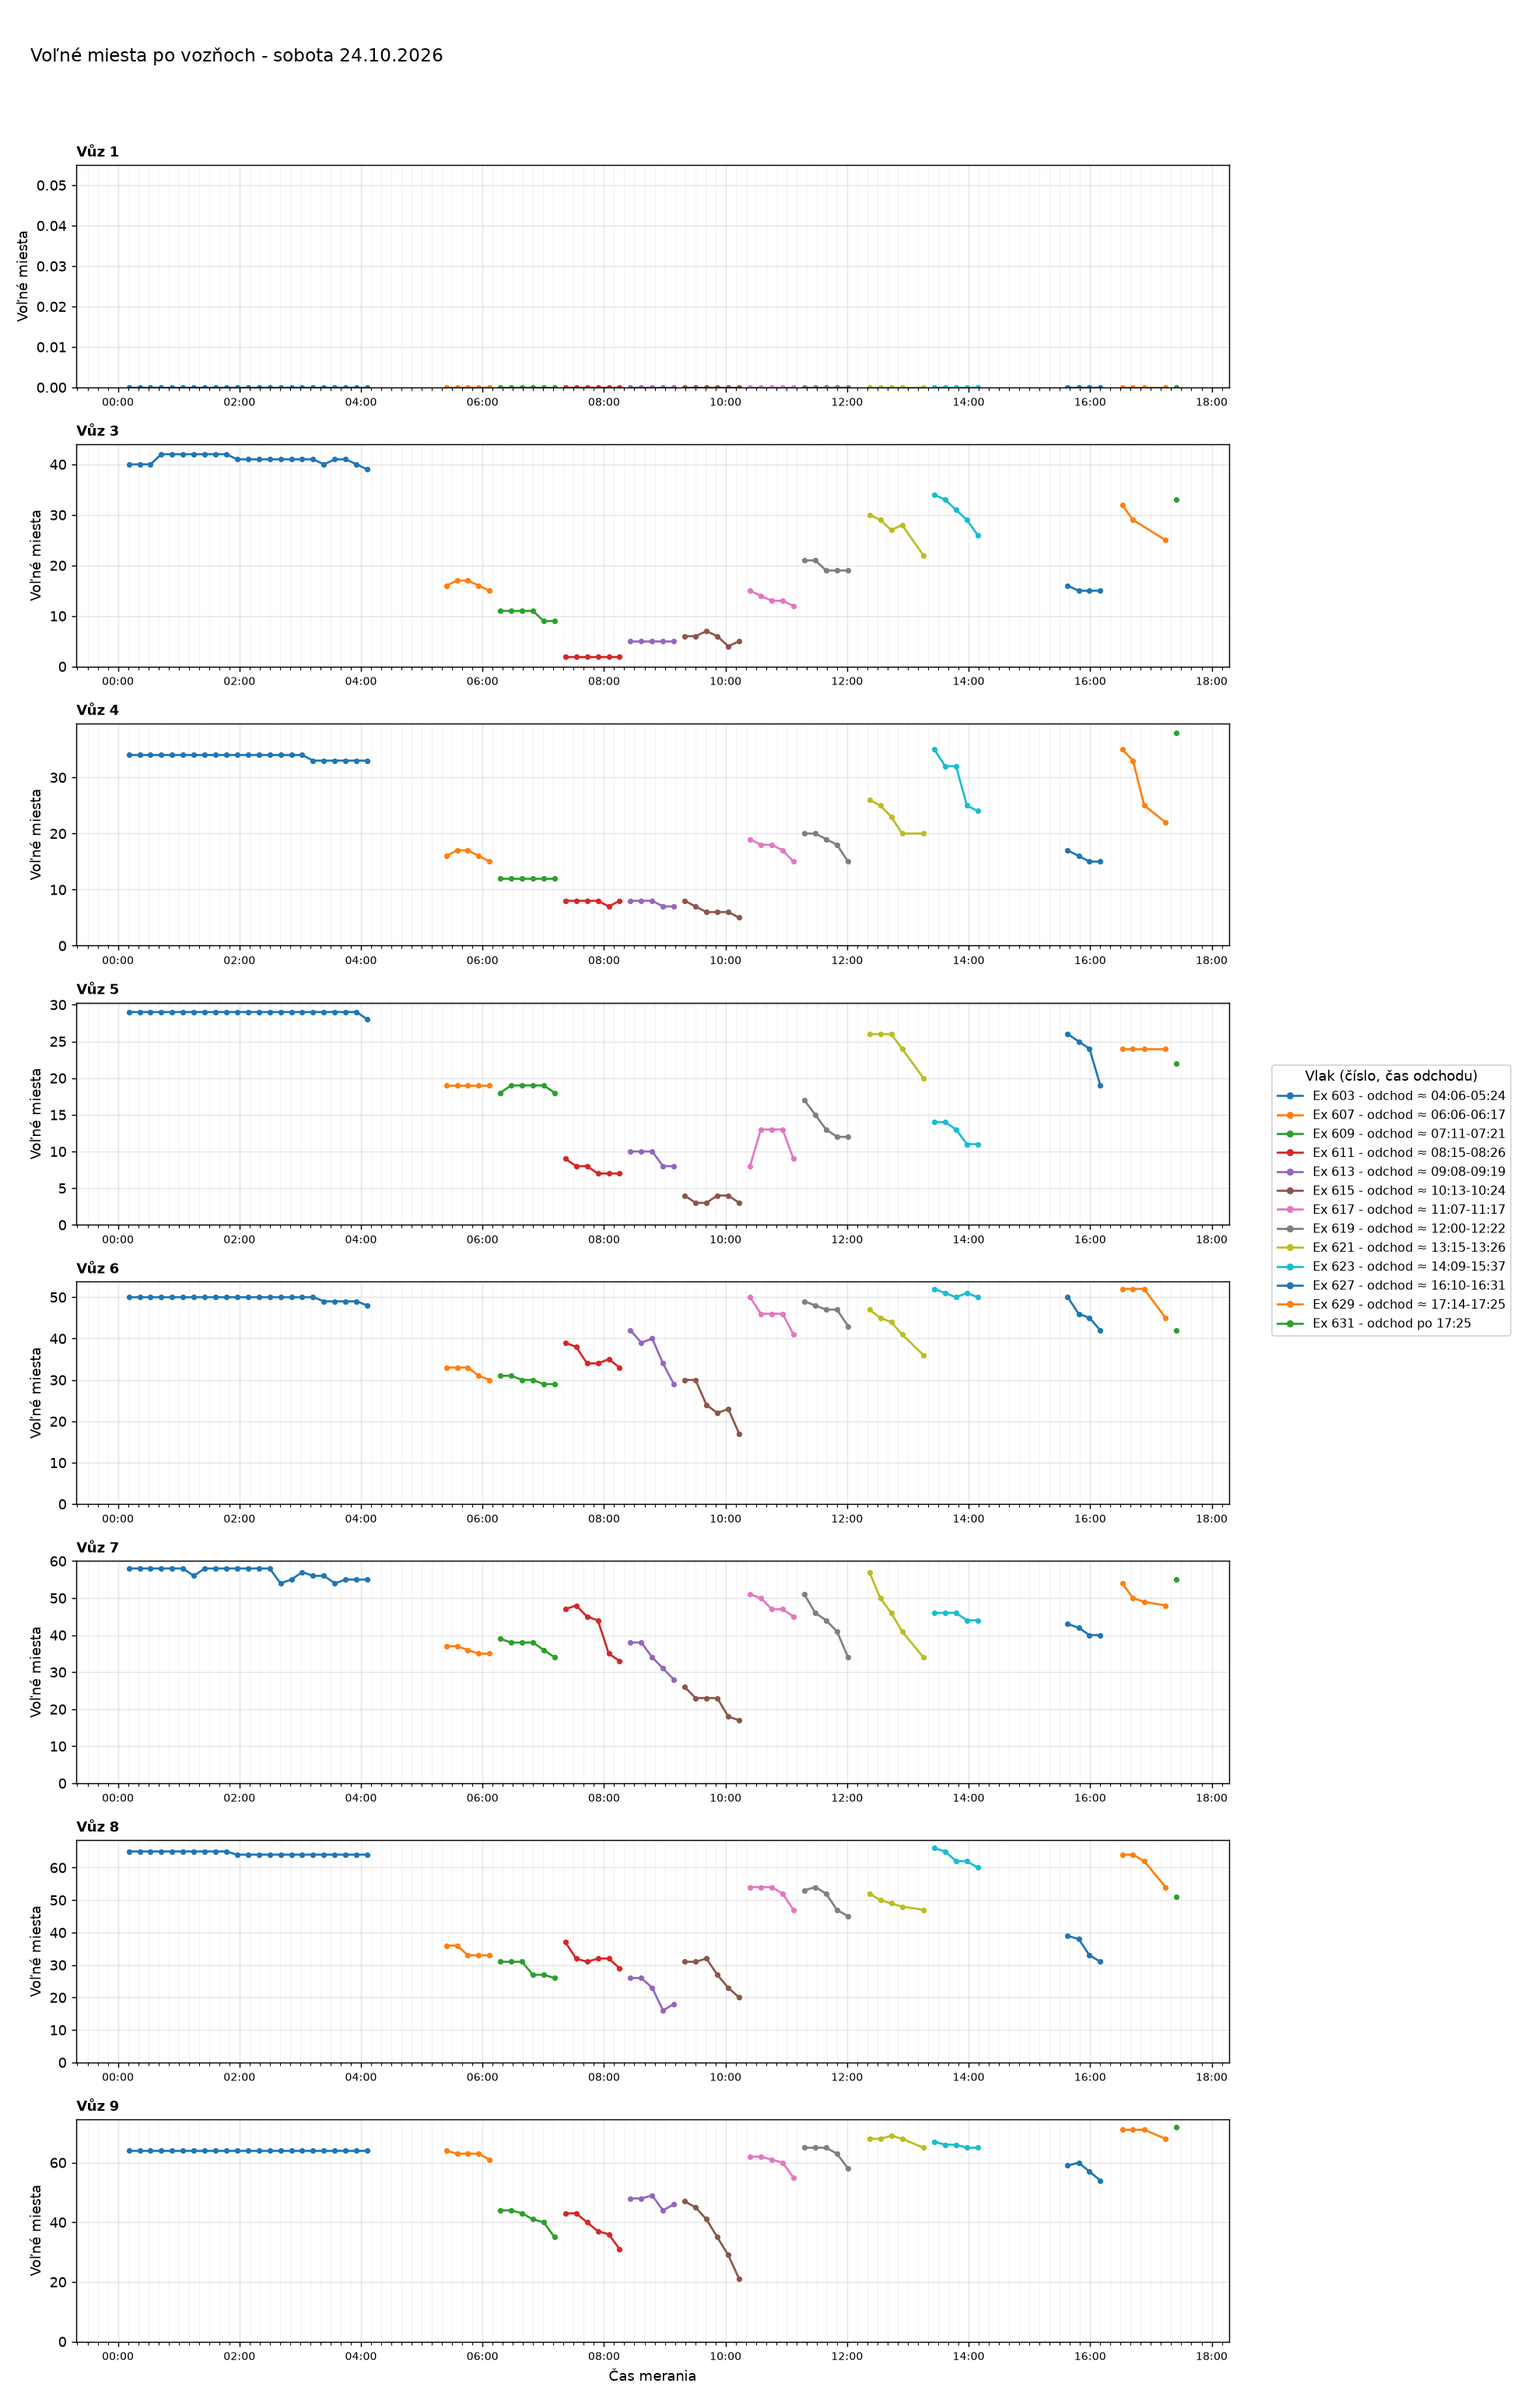
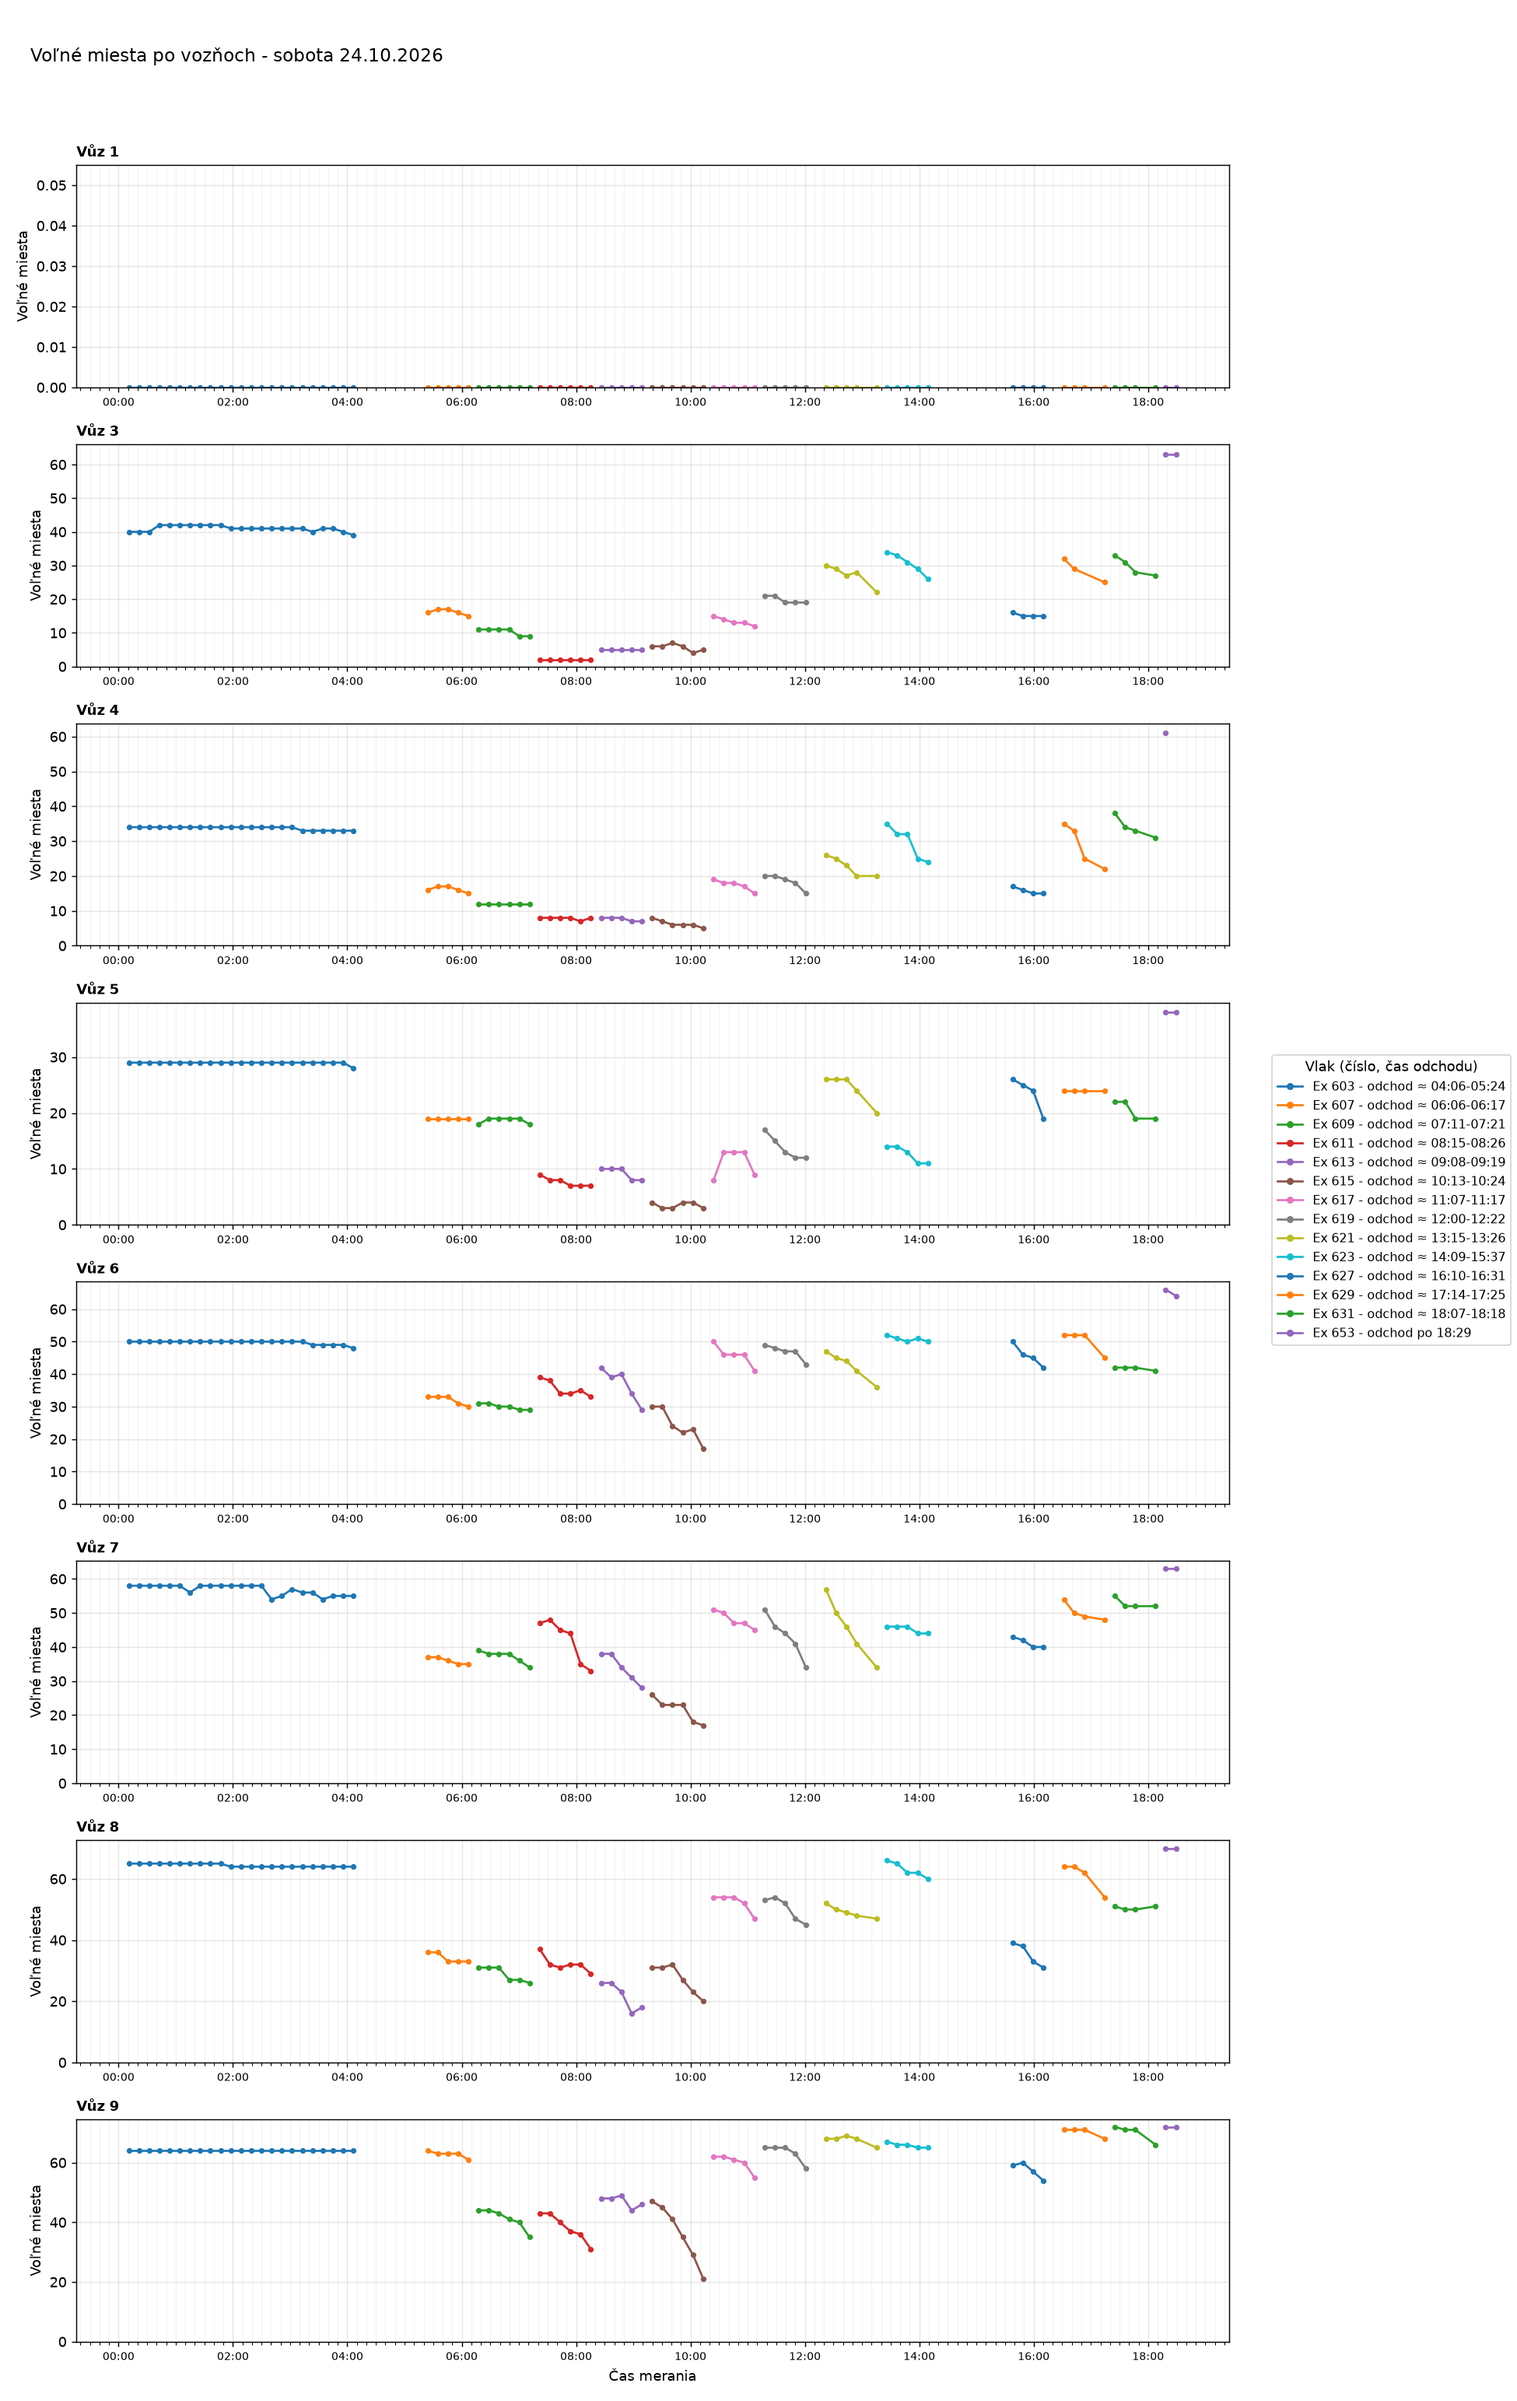
Aktualizácia grafov 2026-10-24 18:31

diff --git a/index.html b/index.html
@@ -35,7 +35,7 @@ h2.oddiel{margin:36px 0 0;font-size:1.4rem}
 <body>
 <main>
 <h1>Voľné miesta vo vlakoch</h1>
-<p class="muted">Posledné meranie: 24.10.2026 17:25 ·
+<p class="muted">Posledné meranie: 24.10.2026 18:29 ·
 <a href="data/obsadenost_data.csv">stiahnuť dáta (CSV)</a></p>
 <nav class="nav"><a href="#suhrn">Súhrn</a><a href="#statistiky">Štatistiky</a><a href="#historia">História grafov</a></nav>
 
@@ -44,7 +44,7 @@ h2.oddiel{margin:36px 0 0;font-size:1.4rem}
 <div class="tablewrap"><table>
 <thead><tr><th>Deň</th><th>Meraní</th><th>Vlakov</th><th>Čas meraní</th></tr></thead>
 <tbody>
-<tr><td><a href="#d2026-10-24">sobota 24.10.2026</a></td><td>80</td><td>13</td><td>00:10-17:25</td></tr>
+<tr><td><a href="#d2026-10-24">sobota 24.10.2026</a></td><td>85</td><td>14</td><td>00:10-18:29</td></tr>
 <tr><td><a href="#d2026-10-23">piatok 23.10.2026</a></td><td>64</td><td>13</td><td>07:25-23:49</td></tr>
 <tr><td><a href="#d2026-10-22">štvrtok 22.10.2026</a></td><td>80</td><td>11</td><td>00:08-16:10</td></tr>
 <tr><td><a href="#d2026-10-21">streda 21.10.2026</a></td><td>96</td><td>15</td><td>00:10-23:58</td></tr>
